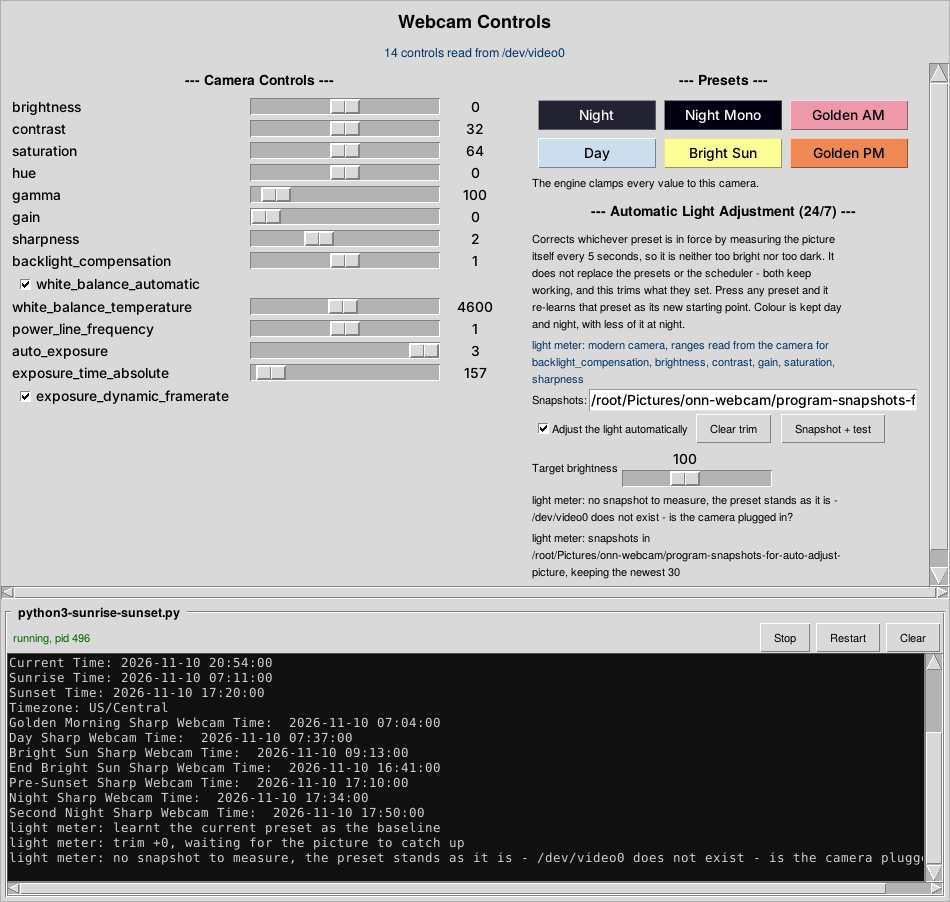
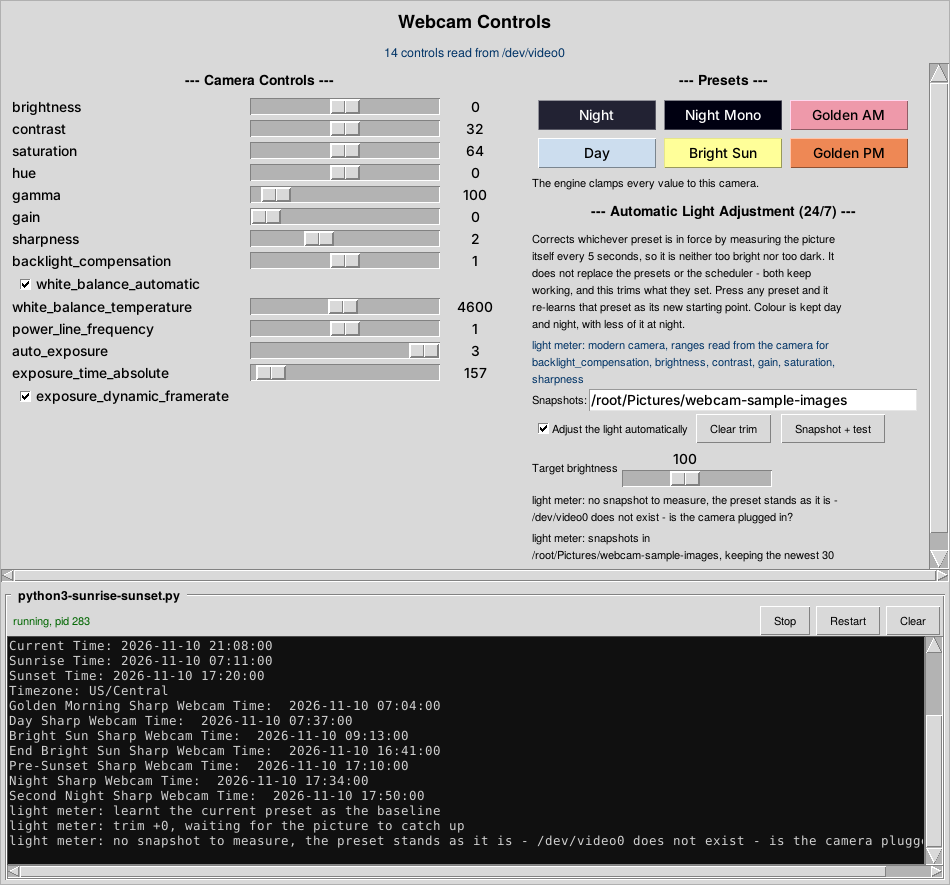
Default the snapshot folder to ~/Pictures/webcam-sample-images
The old default named the camera that happened to be plugged in when this
was written, which made a folder of plain webcam stills look like it belonged
to one particular program. The new name says what is in it.

The old folder is kept in the list of places looked at, so an installation
that has been filling it for months is still found rather than starting over
with nothing to measure. WEBCAM_SNAPSHOT still overrides either.

README and screenshot updated to the new path.

Claude-Session: https://claude.ai/code/session_01FMAna5H7yYWpn81v9dAabE

diff --git a/webcam_light_meter.py b/webcam_light_meter.py
@@ -166,11 +166,14 @@ _VALUE_RE = re.compile(r'(\w+):\s*(-?\d+)')
 # which is what happens under some cron and systemd setups - so this answers
 # for whichever user is actually running the script, with no user name written
 # into it. The folder is created at startup if it is not there.
-SNAPSHOT_DEFAULT = os.path.expanduser(
-    '~/Pictures/onn-webcam/program-snapshots-for-auto-adjust-picture')
+SNAPSHOT_DEFAULT = os.path.expanduser('~/Pictures/webcam-sample-images')
 
 SNAPSHOT_GUESSES = (
     SNAPSHOT_DEFAULT,
+    # Where this used to put them. Kept so that an installation that has been
+    # filling that folder for months is still found rather than starting over
+    # with nothing to measure.
+    os.path.expanduser('~/Pictures/onn-webcam/program-snapshots-for-auto-adjust-picture'),
     os.path.expanduser('~/webcam-snapshots'),
     os.path.expanduser('~/.xeoma/snapshots'),
     '/opt/Xeoma/snapshots',

diff --git a/README.md b/README.md
@@ -473,11 +473,15 @@ export WEBCAM_TARGET=100        # target grey level out of 255, optional
 export WEBCAM_DEVICE=/dev/video0
 ```
 
-The default folder is
-`~/Pictures/onn-webcam/program-snapshots-for-auto-adjust-picture` under
+The default folder is `~/Pictures/webcam-sample-images` under
 whoever's home directory the program is running as - no user name is written
 into any of this. `$HOME` is used when it is set, and the password database
 when it is not, which is the case under some cron and systemd setups.
+
+The folder used to be
+`~/Pictures/onn-webcam/program-snapshots-for-auto-adjust-picture`, and that
+one is still looked in if it exists, so an installation that has been filling
+it for months is not left with nothing to measure.
 
 **Taking the snapshots.** That one folder is created at startup if it is not
 already there, parent folders and all. Nothing else is ever created.
